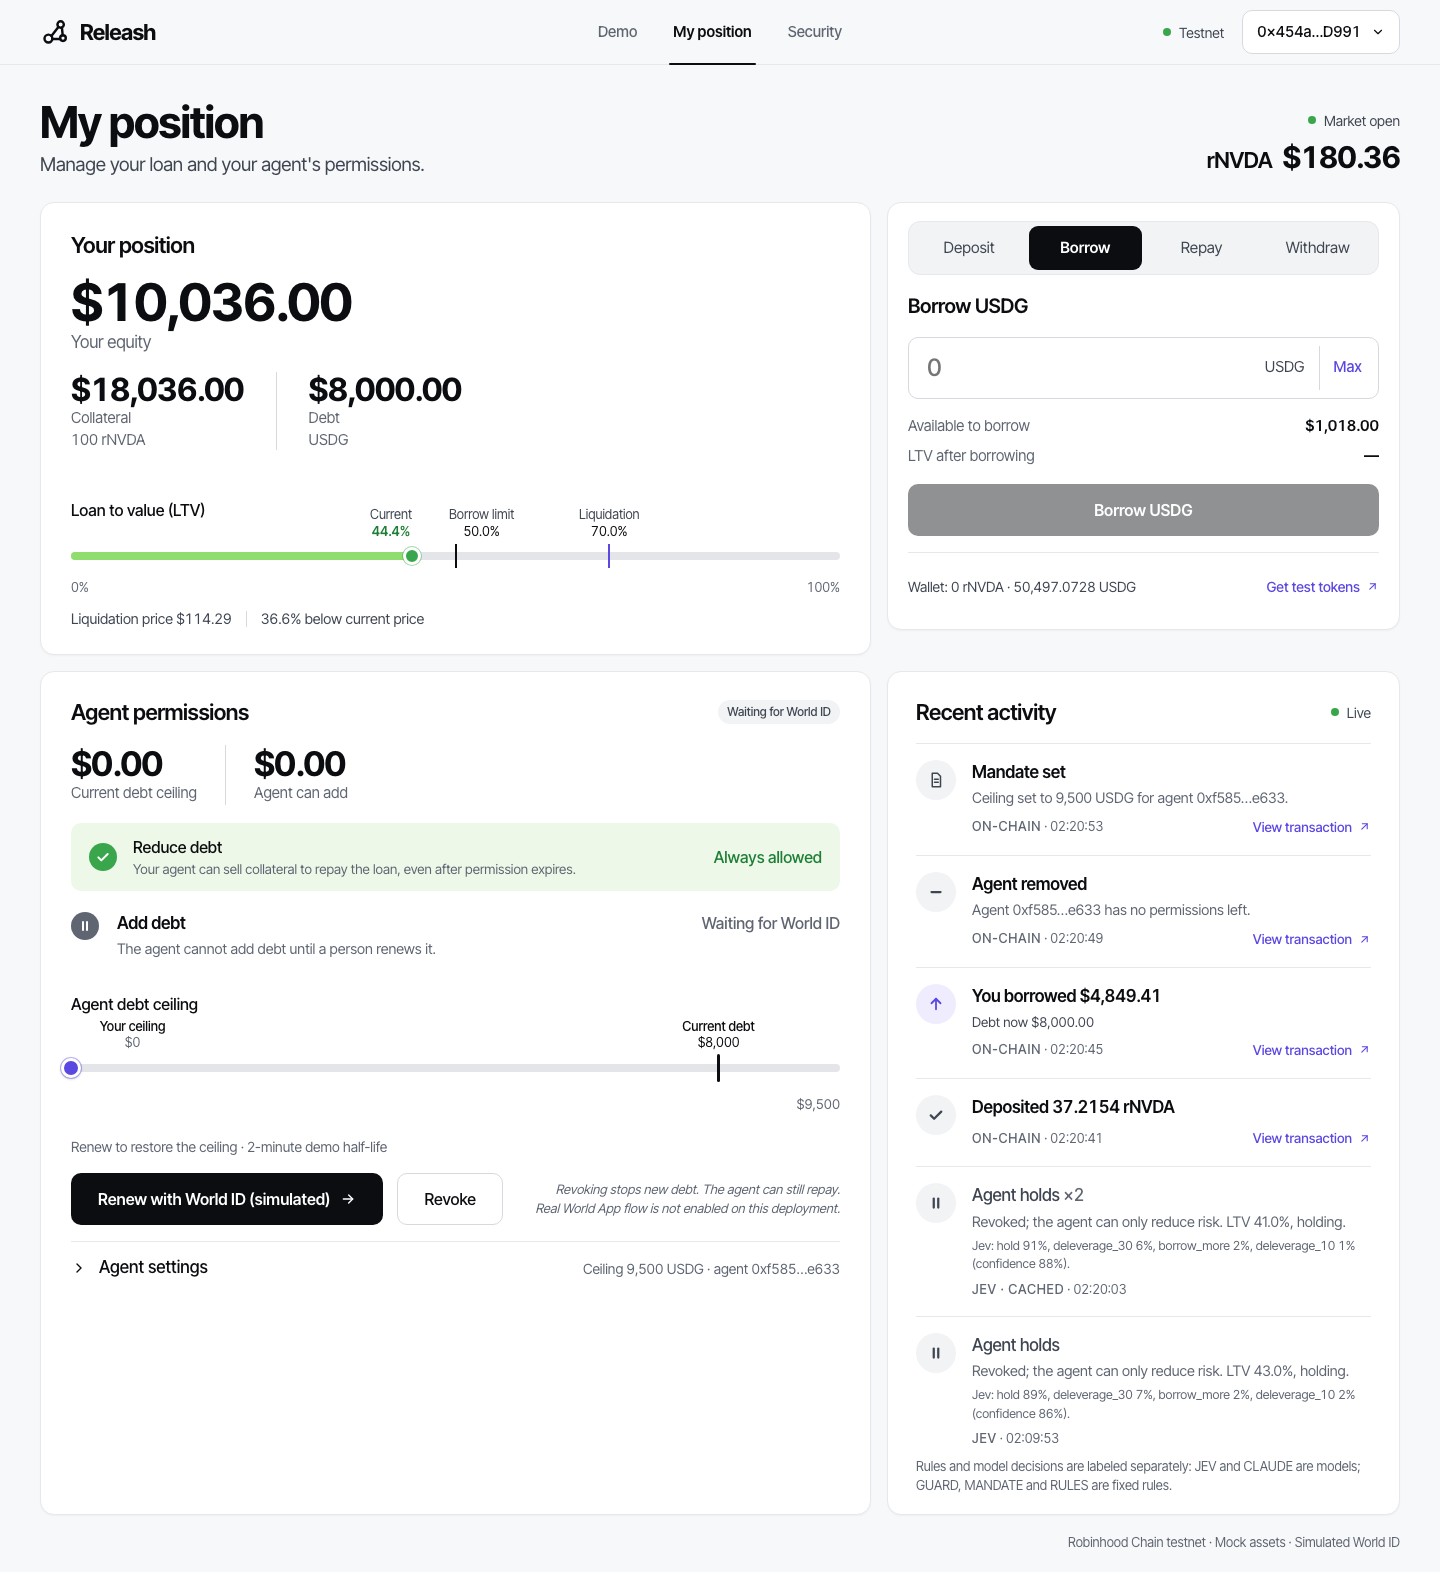
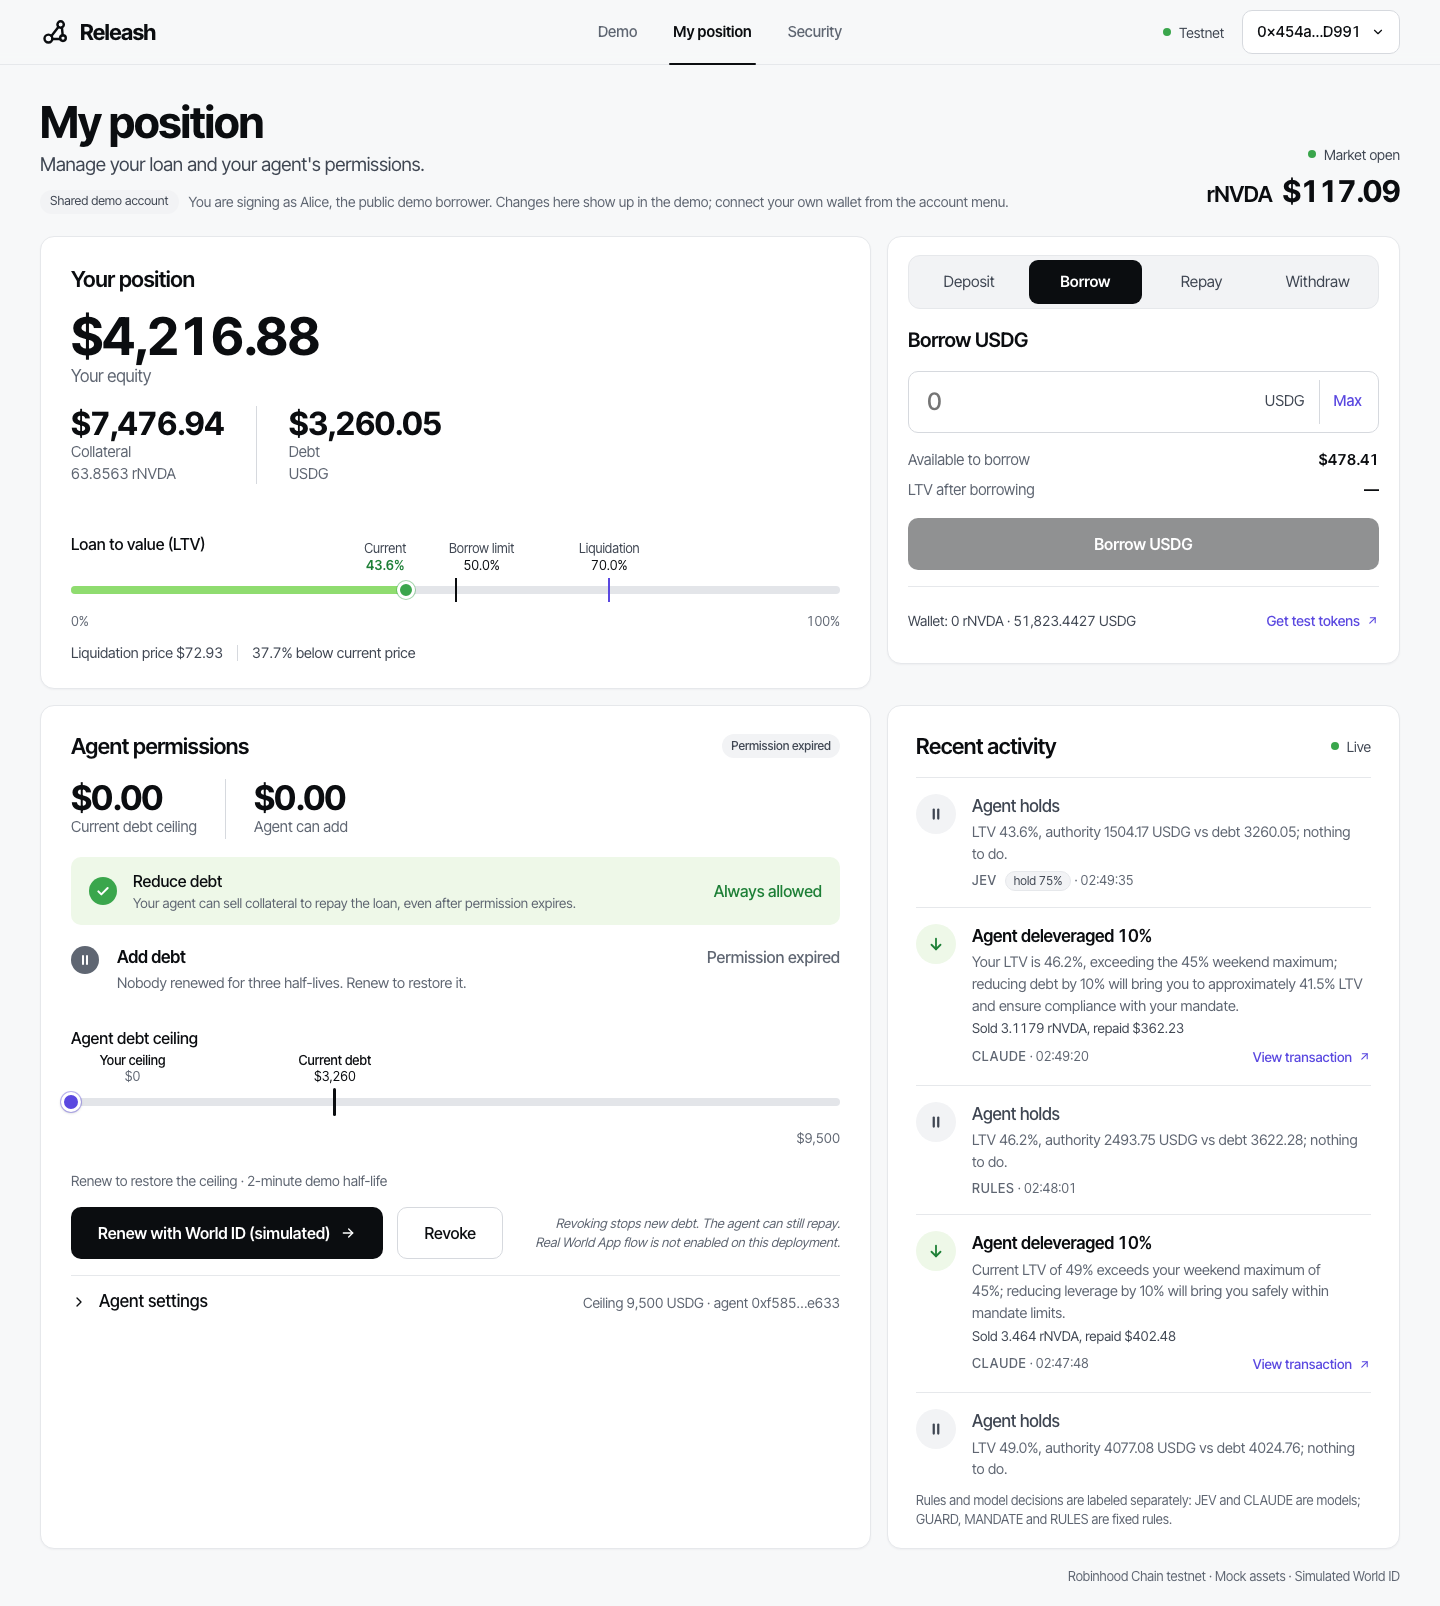
web: model decisions as a top-choice chip (full distribution in the tooltip), 44px hit areas, shared demo account note on /app; contrast and target checks

diff --git a/web/src/components/Activity.tsx b/web/src/components/Activity.tsx
@@ -20,9 +20,20 @@ const ICON: Partial<Record<Kind, [string, React.ReactElement]>> = {
   withdraw: ["grey", <ArrowUp />],
 };
 
+const CHOICE: Record<string, string> = { hold: "hold", borrow_more: "borrow more", deleverage_10: "delever 10%:", deleverage_30: "delever 30%:" };
+/** "Jev: hold 89%, borrow_more 9%, …" -> the model's top choice as a chip; the full distribution goes in the tooltip. */
+function jevTop(raw?: string): { top: string; all: string } | null {
+  const i = raw?.indexOf("Jev:") ?? -1;
+  if (!raw || i < 0) return null;
+  const all = raw.slice(i).replace(/\s*Not sent:.*$/, "").trim();
+  const m = all.match(/Jev:\s*([a-z_0-9]+)\s+(\d+%)/);
+  return m ? { top: `${CHOICE[m[1]] ?? m[1].replace(/_/g, " ")} ${m[2]}`, all } : null;
+}
+
 function Row({ it, pinned, full }: { it: Item & { count?: number }; pinned: boolean; full: boolean }) {
   const [tone, icon] = ICON[it.kind] ?? ["grey", <Doc />];
   const muted = it.kind === "hold" || it.kind === "skipped";
+  const jev = it.source.startsWith("JEV") ? jevTop(it.raw) : null;
   return (
     <li className={`feed__item${muted ? " feed__item--muted" : ""}`} data-testid={pinned ? "feed-pinned" : undefined} title={[it.effect, it.raw].filter(Boolean).join(" — ")}>
       <span className={`feed__icon feed__icon--${tone}`}>{icon}</span>
@@ -30,9 +41,12 @@ function Row({ it, pinned, full }: { it: Item & { count?: number }; pinned: bool
         <div className="feed__title num">{it.title}{it.count && it.count > 1 ? <span className="muted"> ×{it.count}</span> : null}</div>
         {it.detail && <p className="feed__detail">{it.detail}</p>}
         {it.effect && full && <p className="feed__effect num">{it.effect}</p>}
-        {full && it.raw && /Jev:/.test(it.raw) && <p className="feed__raw num">{it.raw.slice(it.raw.indexOf("Jev:")).replace(/\s*Not sent:.*$/, "")}</p>}
         <div className="feed__meta">
-          <span><span className="src">{it.source}</span> · <time className="num">{fmtClock(it.ts)}</time></span>
+          <span>
+            <span className="src">{it.source}</span>
+            {jev && <span className="modelchip num" title={jev.all}>{jev.top}</span>}
+            {" · "}<time className="num">{full ? fmtClock(it.ts) : fmtClock(it.ts).slice(0, 5)}</time>
+          </span>
           {it.txHash && EXPLORER && (
             <a className="link" href={`${EXPLORER}/tx/${it.txHash}`} target="_blank" rel="noreferrer">View transaction <ArrowUpRight /></a>
           )}

diff --git a/web/src/styles.css b/web/src/styles.css
@@ -484,3 +484,15 @@ section.feed { padding: 24px 28px 18px; display: flex; flex-direction: column; }
 .demo .figures .mid { font-size: 32px; }
 .demo .pagehead p.sub { margin-top: 2px; }
 .demo .txline { margin-top: 0; }
+.modelchip { display: inline-flex; align-items: center; height: 20px; padding: 0 8px; margin-left: 8px; border-radius: 999px; background: var(--sunk); border: 1px solid var(--line); font-size: 12px; color: var(--ink-2); cursor: help; }
+/* 44px hit areas for small inline links without changing layout (the /demo frame must not grow). */
+.feed__meta .link, .compare__addr, .scenario__result a, .account__menu a { position: relative; }
+.feed__meta .link::after, .compare__addr::after, .scenario__result a::after { content: ""; position: absolute; inset: -12px -6px; }
+.contracts .link { min-height: 44px; }
+.targets .link { min-height: 44px; }
+.shared-note { display: flex; align-items: center; gap: 10px; flex-wrap: wrap; margin-top: 10px; font-size: 14px; color: var(--ink-3); }
+.feed__meta > span:first-child { white-space: nowrap; }
+.feed__meta .link { white-space: nowrap; }
+/* /demo: a status line must never add height to the 1920x1080 frame; it sits in the card's bottom padding. */
+.demo .actions-row { position: relative; }
+.demo .actions-row .txline { position: absolute; left: 0; top: calc(100% + 2px); margin: 0; }

diff --git a/web/src/pages/AppPage.tsx b/web/src/pages/AppPage.tsx
@@ -238,7 +238,7 @@ function PermissionsCard({ owner, state }: { owner?: Address; state?: VaultState
 
 /** A borrower's own dashboard: the connected wallet (or the demo account) is the borrower. */
 export function AppPage() {
-  const { address } = useSigner();
+  const { address, mode } = useSigner();
   const vault = useVault(address);
   const state = vault.data;
   return (
@@ -247,6 +247,7 @@ export function AppPage() {
         <div>
           <h1>My position</h1>
           <p className="sub">Manage your loan and your agent's permissions.</p>
+          {mode === "demo" && <p className="shared-note"><span className="chip">Shared demo account</span> You are signing as Alice, the public demo borrower. Changes here show up in the demo; connect your own wallet from the account menu.</p>}
         </div>
         <Market state={state} />
       </div>

diff --git a/web/rehearsal/REPORT.md b/web/rehearsal/REPORT.md
@@ -75,3 +75,11 @@ reset 19 s · renew 7.5 s (meter $9,270.89) · lever-up 1.6 s (debt 8,820) · bl
 debt 5,000.94 → 3,500.66) · final reset: first attempt failed in the backend ("borrow reverted": control re-borrow at 8,800 hit the
 LTV limit while the price was still ~$122), second attempt passed in 43 s (Alice debt 8,000, price 180).
 Post-gap /demo measured at 1920x1080: page bottom 1,044 px, no scrolling. `contract-check.mjs` ALL OK after every deploy.
+
+## Model chip run (4 Oct, 02:43–02:52 JST, `BEATS=2,3,6,7`, then `BEATS=9`): all pass
+Feed rows show the model's top choice as a chip next to the source ("JEV · borrow more 62%"); the full distribution is in the tooltip.
+Post-gap /demo at 1920x1080: page bottom 1,065 px, no scrolling; status lines sit in the card padding so they never add height.
+Reset failed once more on the first try ("borrow reverted", backend) and passed on the second (Alice debt 8,000, price 180).
+The 01–09 PNGs in this folder now show the redesigned UI; the older sections above describe the earlier dark UI.
+`axe-contrast.mjs`: no color-contrast violations on /, /demo, /app, /security at 1440 and 375. `contract-check.mjs`: ALL OK
+(test ids, pills, 1920x1080 fit, 44 px targets on all routes, deep links, no console errors).
